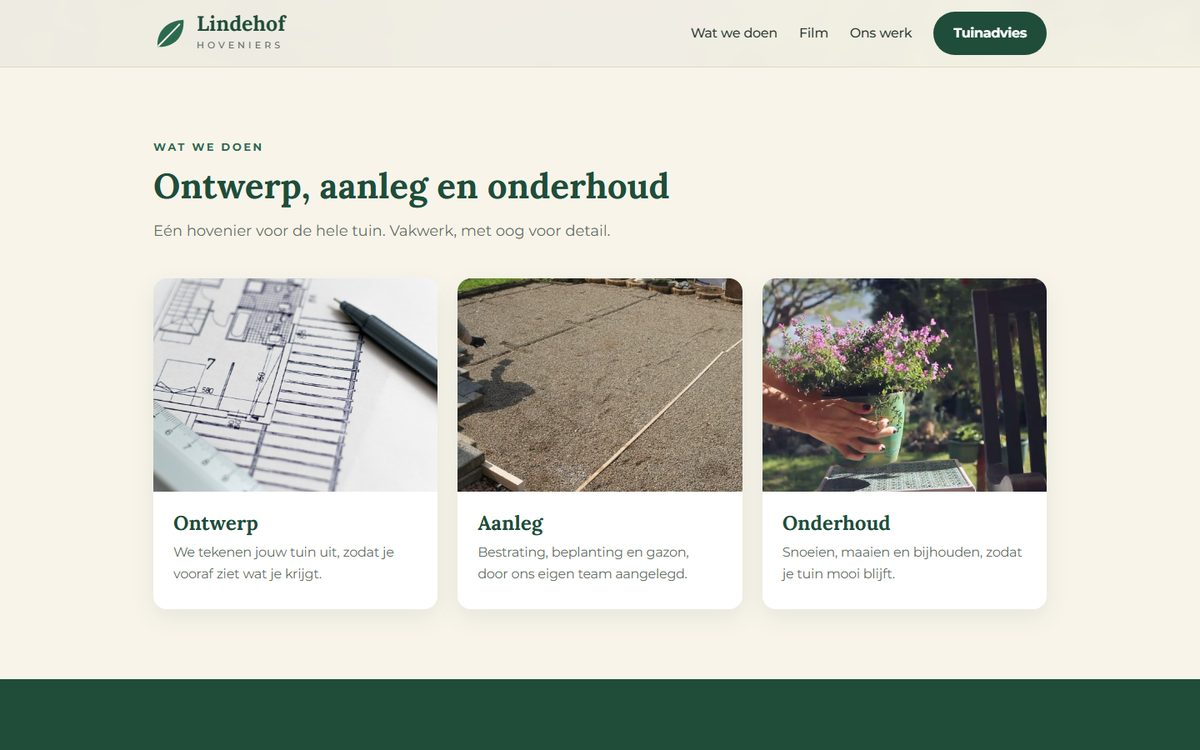
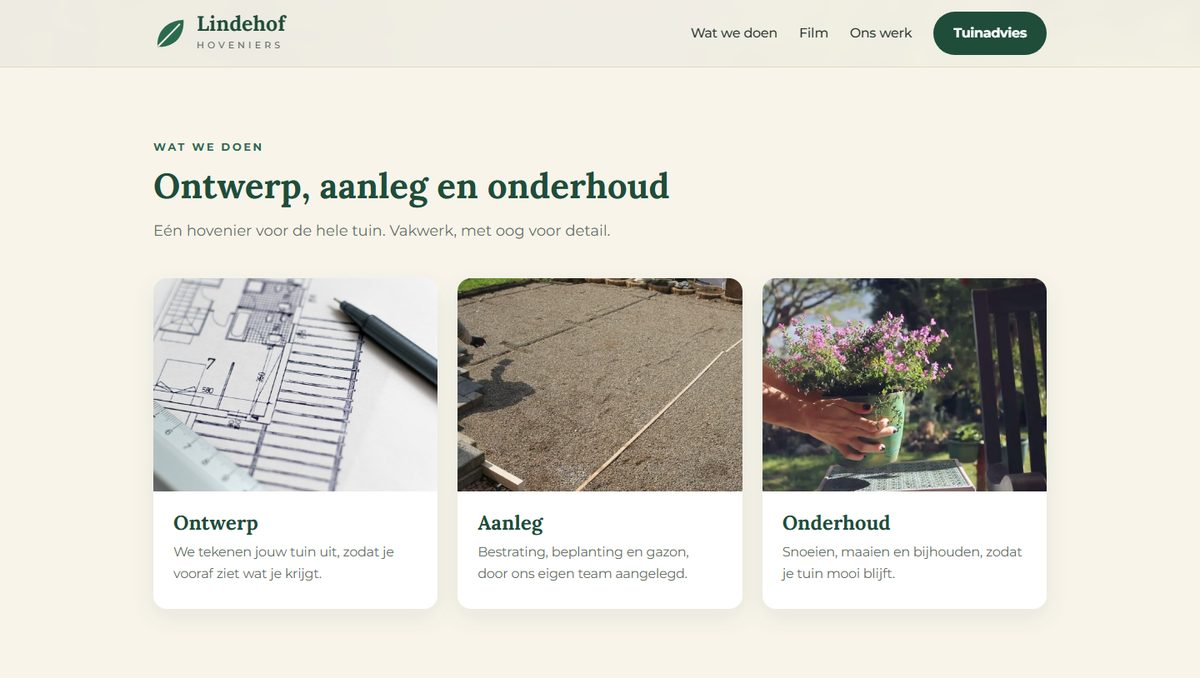
Kijkvenster: elk beeld is precies één heel onderdeel van de voorbeeldsite

diff --git a/stijl.css b/stijl.css
@@ -166,12 +166,12 @@ nav a.ander:hover { color:var(--antraciet); filter:brightness(0.95); }
 .voorbeeld .blader { display:inline-block; color:var(--antraciet); font-weight:700; border-bottom:2px solid var(--limoen); margin-left:4px; }
 .kijkvenster { position:fixed; inset:0; z-index:200; background:rgba(20,20,24,0.88); display:flex; align-items:center; justify-content:center; padding:20px; }
 .kijkvenster[hidden] { display:none; }
-.kijkvak { width:min(1100px, 100%, calc((76vh - 34px) * 1.6)); }
+.kijkvak { display:inline-flex; flex-direction:column; max-width:min(1100px, 100%); }
 .kijkkop { display:flex; align-items:center; gap:16px; color:var(--wit); font-weight:800; font-size:18px; margin-bottom:12px; }
 .kijkkop #kijkteller { font-weight:500; font-size:15px; color:#BDBDC6; margin-left:auto; }
 .kijkkop button { background:none; border:0; color:var(--wit); font-size:34px; line-height:1; cursor:pointer; padding:0 4px; }
 .kijkvak .venster.los { aspect-ratio:auto; }
-.kijkvak .venster.los img { cursor:pointer; flex:none; width:100%; height:auto; aspect-ratio:1200/750; background:#fff; }
+.kijkvak .venster.los img { cursor:pointer; flex:none; display:block; width:auto; height:auto; max-width:100%; max-height:calc(78vh - 34px); background:#fff; }
 .kijkknoppen { display:flex; justify-content:space-between; gap:12px; margin-top:14px; }
 .kijkknoppen button { background:var(--limoen); color:var(--antraciet); border:0; border-radius:4px; font:inherit; font-weight:800; padding:12px 22px; cursor:pointer; }
 .kijkknoppen button:hover { filter:brightness(0.95); }

diff --git a/websites.html b/websites.html
@@ -220,7 +220,8 @@
 
   // kijkvenster: bladeren door vijf schermbeelden van een voorbeeldsite, zonder de pagina te verlaten
   var kv=document.getElementById('kijkvenster'), kb=document.getElementById('kijkbeeld'), naam='', nr=1, AANTAL=5;
-  function toon(){ kb.src='img/vb-'+naam+'-'+nr+'.jpg'; document.getElementById('kijkteller').textContent=nr+' van '+AANTAL; }
+  var MATEN={"lindehof":[638,678,851,798,418],"studio-noord":[618,504,879,643,673]};   // hoogte van elk beeld bij 1200 breed: elk beeld is één heel onderdeel van de voorbeeldsite
+  function toon(){ kb.width=1200; kb.height=MATEN[naam][nr-1]; kb.src='img/vb-'+naam+'-'+nr+'.jpg'; document.getElementById('kijkteller').textContent=nr+' van '+AANTAL; }
   function sluit(){ kv.hidden=true; document.body.style.overflow=''; }
   function stap(d){ nr=(nr-1+d+AANTAL)%AANTAL+1; toon(); }
   document.querySelectorAll('[data-voorbeeld]').forEach(function(b){
